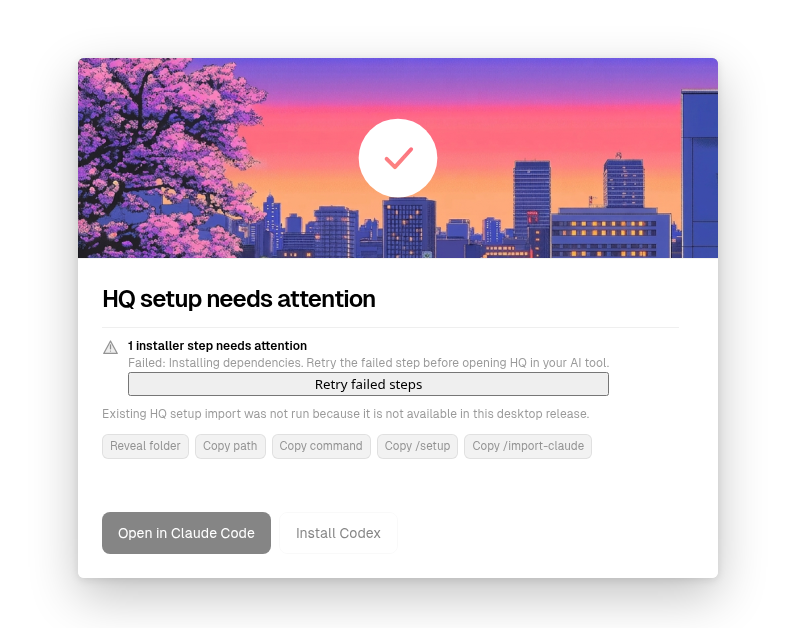
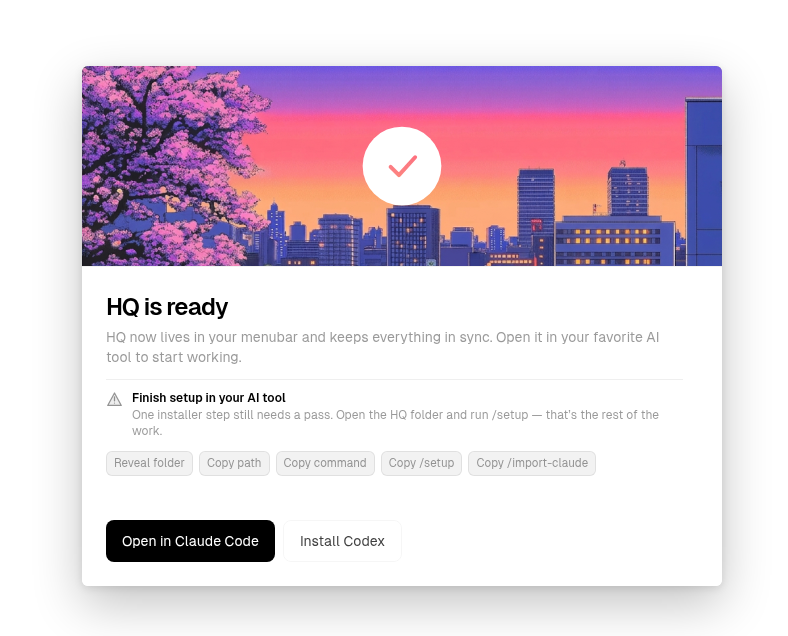
fix(onboarding): correct completion screenshots

Changed region(s): [[0.0914, 0.0896, 0.9137, 0.9261]]

diff --git a/apps/sync/src/components/onboarding/OnboardingWizard.svelte b/apps/sync/src/components/onboarding/OnboardingWizard.svelte
@@ -1863,7 +1863,15 @@
           class:out-right={outgoingGraphicStep === READY_STEP_INDEX && outgoingGraphicDirection === 'right'}
           data-g={READY_STEP_INDEX}
         >
-          {@render BigCheck()}
+          {#if needsAttention}
+            <span data-testid="onboarding-completion-warning-indicator" aria-hidden="true">
+              {@render AlertTriangle('completion-status-icon')}
+            </span>
+          {:else}
+            <span data-testid="onboarding-completion-success-indicator" aria-hidden="true">
+              {@render BigCheck()}
+            </span>
+          {/if}
         </div>
 
         <div
@@ -2242,11 +2250,7 @@
               data-testid="onboarding-setup-failures"
               aria-label={setupFailureCaution.title}
             >
-              <svg class="setup-caution-icon" viewBox="0 0 20 20" aria-hidden="true">
-                <path d="M10 2.4 18 17H2L10 2.4Z"></path>
-                <path d="M10 7v4.5"></path>
-                <circle cx="10" cy="14.2" r=".7"></circle>
-              </svg>
+              {@render AlertTriangle('setup-caution-icon')}
               <div class="setup-caution-copy">
                 <strong>{setupFailureCaution.title}</strong>
                 <span>{setupFailureCaution.body}</span>
@@ -2269,11 +2273,7 @@
               data-testid="onboarding-escape"
               aria-label={readyCaution.title}
             >
-              <svg class="setup-caution-icon" viewBox="0 0 20 20" aria-hidden="true">
-                <path d="M10 2.4 18 17H2L10 2.4Z"></path>
-                <path d="M10 7v4.5"></path>
-                <circle cx="10" cy="14.2" r=".7"></circle>
-              </svg>
+              {@render AlertTriangle('setup-caution-icon')}
               <div class="setup-caution-copy">
                 <strong>{readyCaution.title}</strong>
                 <span>{readyCaution.body}</span>
@@ -2546,6 +2546,14 @@
   </svg>
 {/snippet}
 
+{#snippet AlertTriangle(iconClass: string)}
+  <svg class={iconClass} viewBox="0 0 20 20" aria-hidden="true">
+    <path d="M10 2.4 18 17H2L10 2.4Z"></path>
+    <path d="M10 7v4.5"></path>
+    <circle cx="10" cy="14.2" r=".7"></circle>
+  </svg>
+{/snippet}
+
 {#snippet TrustMock()}
   <div class="mockwin">
     <div class="mockbar"><i style="background:#ff5f56"></i><i style="background:#ffbd2e"></i><i style="background:#27c93f"></i><span class="tt">Claude Code</span></div>
@@ -2784,6 +2792,8 @@
   .pbar { fill:none; stroke:#fff; stroke-width:5; stroke-linecap:round; transition:stroke-dashoffset .18s ease; }
   .ppct { position:absolute; inset:0; display:flex; align-items:center; justify-content:center; color:#fff; font-size:15px; font-weight:400; letter-spacing:-0.3px; text-shadow:0 1px 4px rgba(0,0,0,0.25); }
   .bigcheck { width:84px; height:84px; display:block; }
+  .completion-status-icon { width:84px; height:84px; display:block; fill:rgba(255,255,255,0.18); stroke:#fff; stroke-width:1.5; stroke-linecap:round; stroke-linejoin:round; }
+  .completion-status-icon circle { fill:#fff; stroke:none; }
 
   .manual-tools { display:flex; flex-wrap:wrap; gap:6px; margin-top:12px; }
   .manual-tools button { appearance:none; border:0.5px solid var(--c-field-border); border-radius:6px; background:var(--c-btn2-bg); color:var(--c-muted); font:inherit; font-size:11.5px; line-height:15px; padding:4px 7px; cursor:pointer; }

diff --git a/apps/sync/src/components/onboarding/OnboardingWizard.test.ts b/apps/sync/src/components/onboarding/OnboardingWizard.test.ts
@@ -319,6 +319,63 @@ describe('onboarding launch handoff', () => {
     ).toBe(false);
   });
 
+  it('uses an alert completion icon after required setup failure and keeps the success check for clean setup', async () => {
+    mountWizard();
+    await flush();
+
+    expect(
+      host.querySelector('[data-testid="onboarding-completion-success-indicator"]'),
+    ).not.toBeNull();
+    expect(
+      host.querySelector('[data-testid="onboarding-completion-warning-indicator"]'),
+    ).toBeNull();
+
+    await unmount(component!);
+    component = null;
+    host.replaceChildren();
+
+    const claudeDesktopOnly = {
+      ...NO_AI_TOOLS,
+      claude_desktop: true,
+      any: true,
+    };
+    tauri.invoke.mockImplementation(async (command: string) => {
+      switch (command) {
+        case 'resolve_hq_path':
+          return '/placeholder/hq';
+        case 'detect_ai_tools':
+          return claudeDesktopOnly;
+        case 'install_deps':
+          throw new Error('dependency installation failed');
+        case 'detect_claude_desktop_connectors':
+          return { present: false, count: 0, path: '/placeholder/connectors' };
+        default:
+          return undefined;
+      }
+    });
+    component = mount(OnboardingWizard, {
+      target: host,
+      props: { initialStep: 2, onfinish: vi.fn() },
+    });
+
+    await flushUntil(() =>
+      Boolean(host.querySelector('[data-testid="onboarding-consent"] input[value="decline"]')),
+    );
+    host
+      .querySelector<HTMLInputElement>('[data-testid="onboarding-consent"] input[value="decline"]')
+      ?.click();
+    host.querySelector<HTMLButtonElement>('[data-testid="consent-continue"]')?.click();
+    await vi.advanceTimersByTimeAsync(1_000);
+    await flushUntil(() => Boolean(host.querySelector('[data-testid="onboarding-setup-failures"]')));
+
+    expect(
+      host.querySelector('[data-testid="onboarding-completion-warning-indicator"]'),
+    ).not.toBeNull();
+    expect(
+      host.querySelector('[data-testid="onboarding-completion-success-indicator"]'),
+    ).toBeNull();
+  });
+
   it('shows Codex as installed when only the ChatGPT-bundled desktop app is present', async () => {
     // Desktop Codex ships inside ChatGPT.app; the detector reports that as
     // codex_desktop, and the Ready screen must offer to launch it rather than
